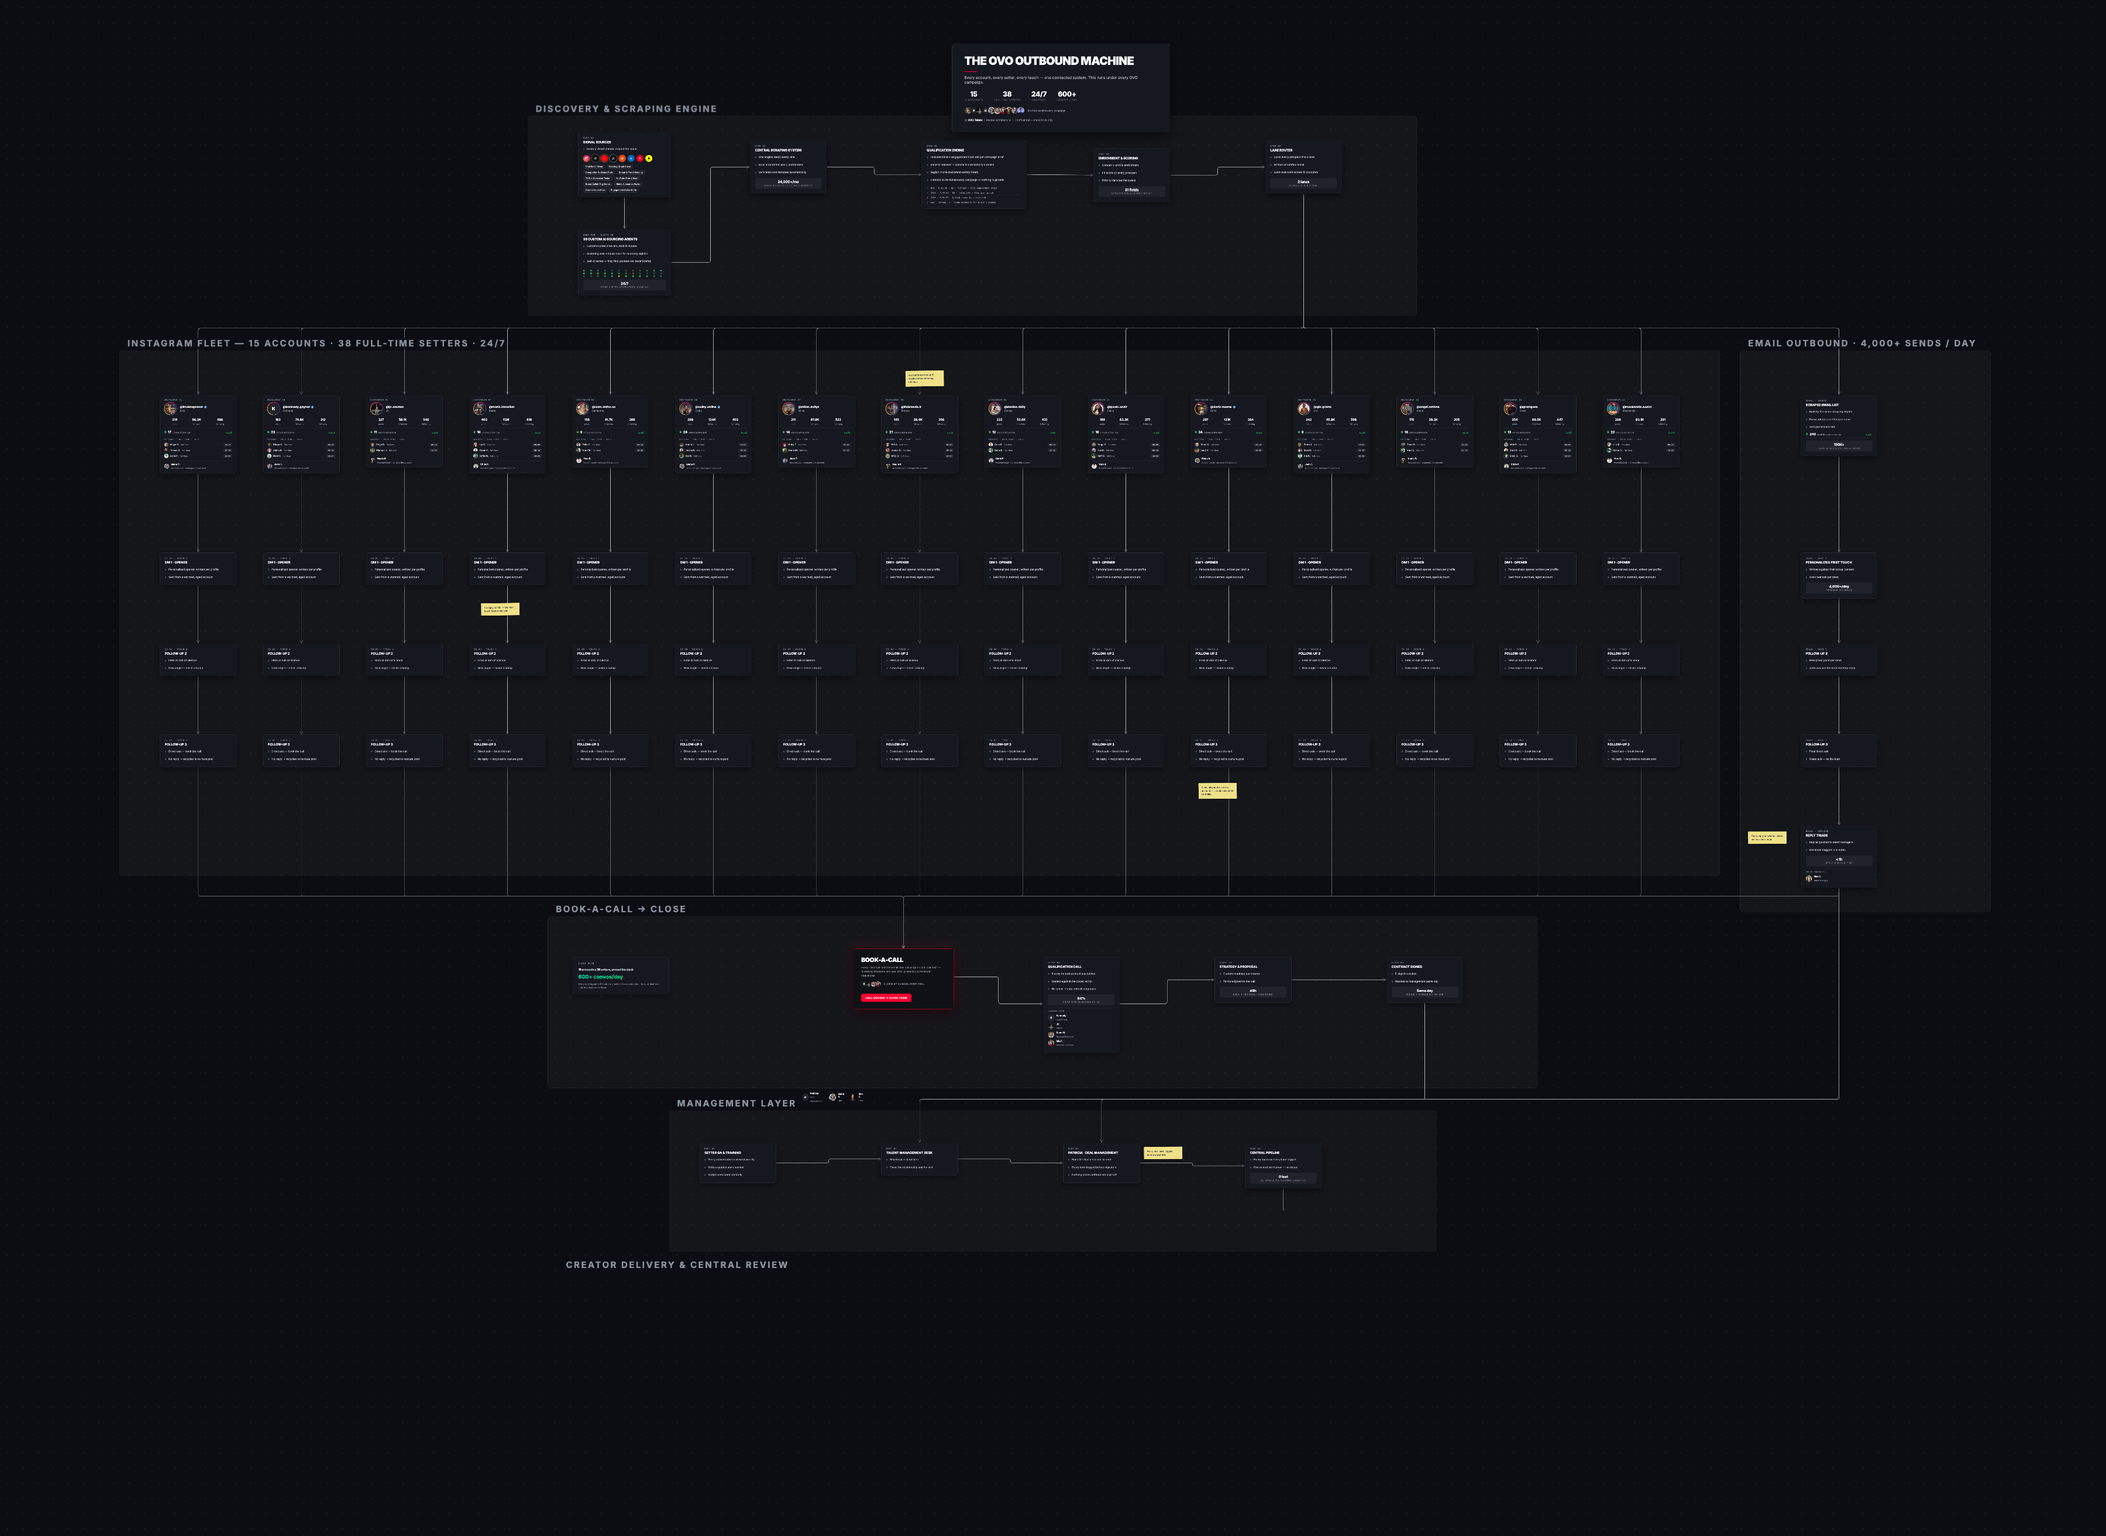
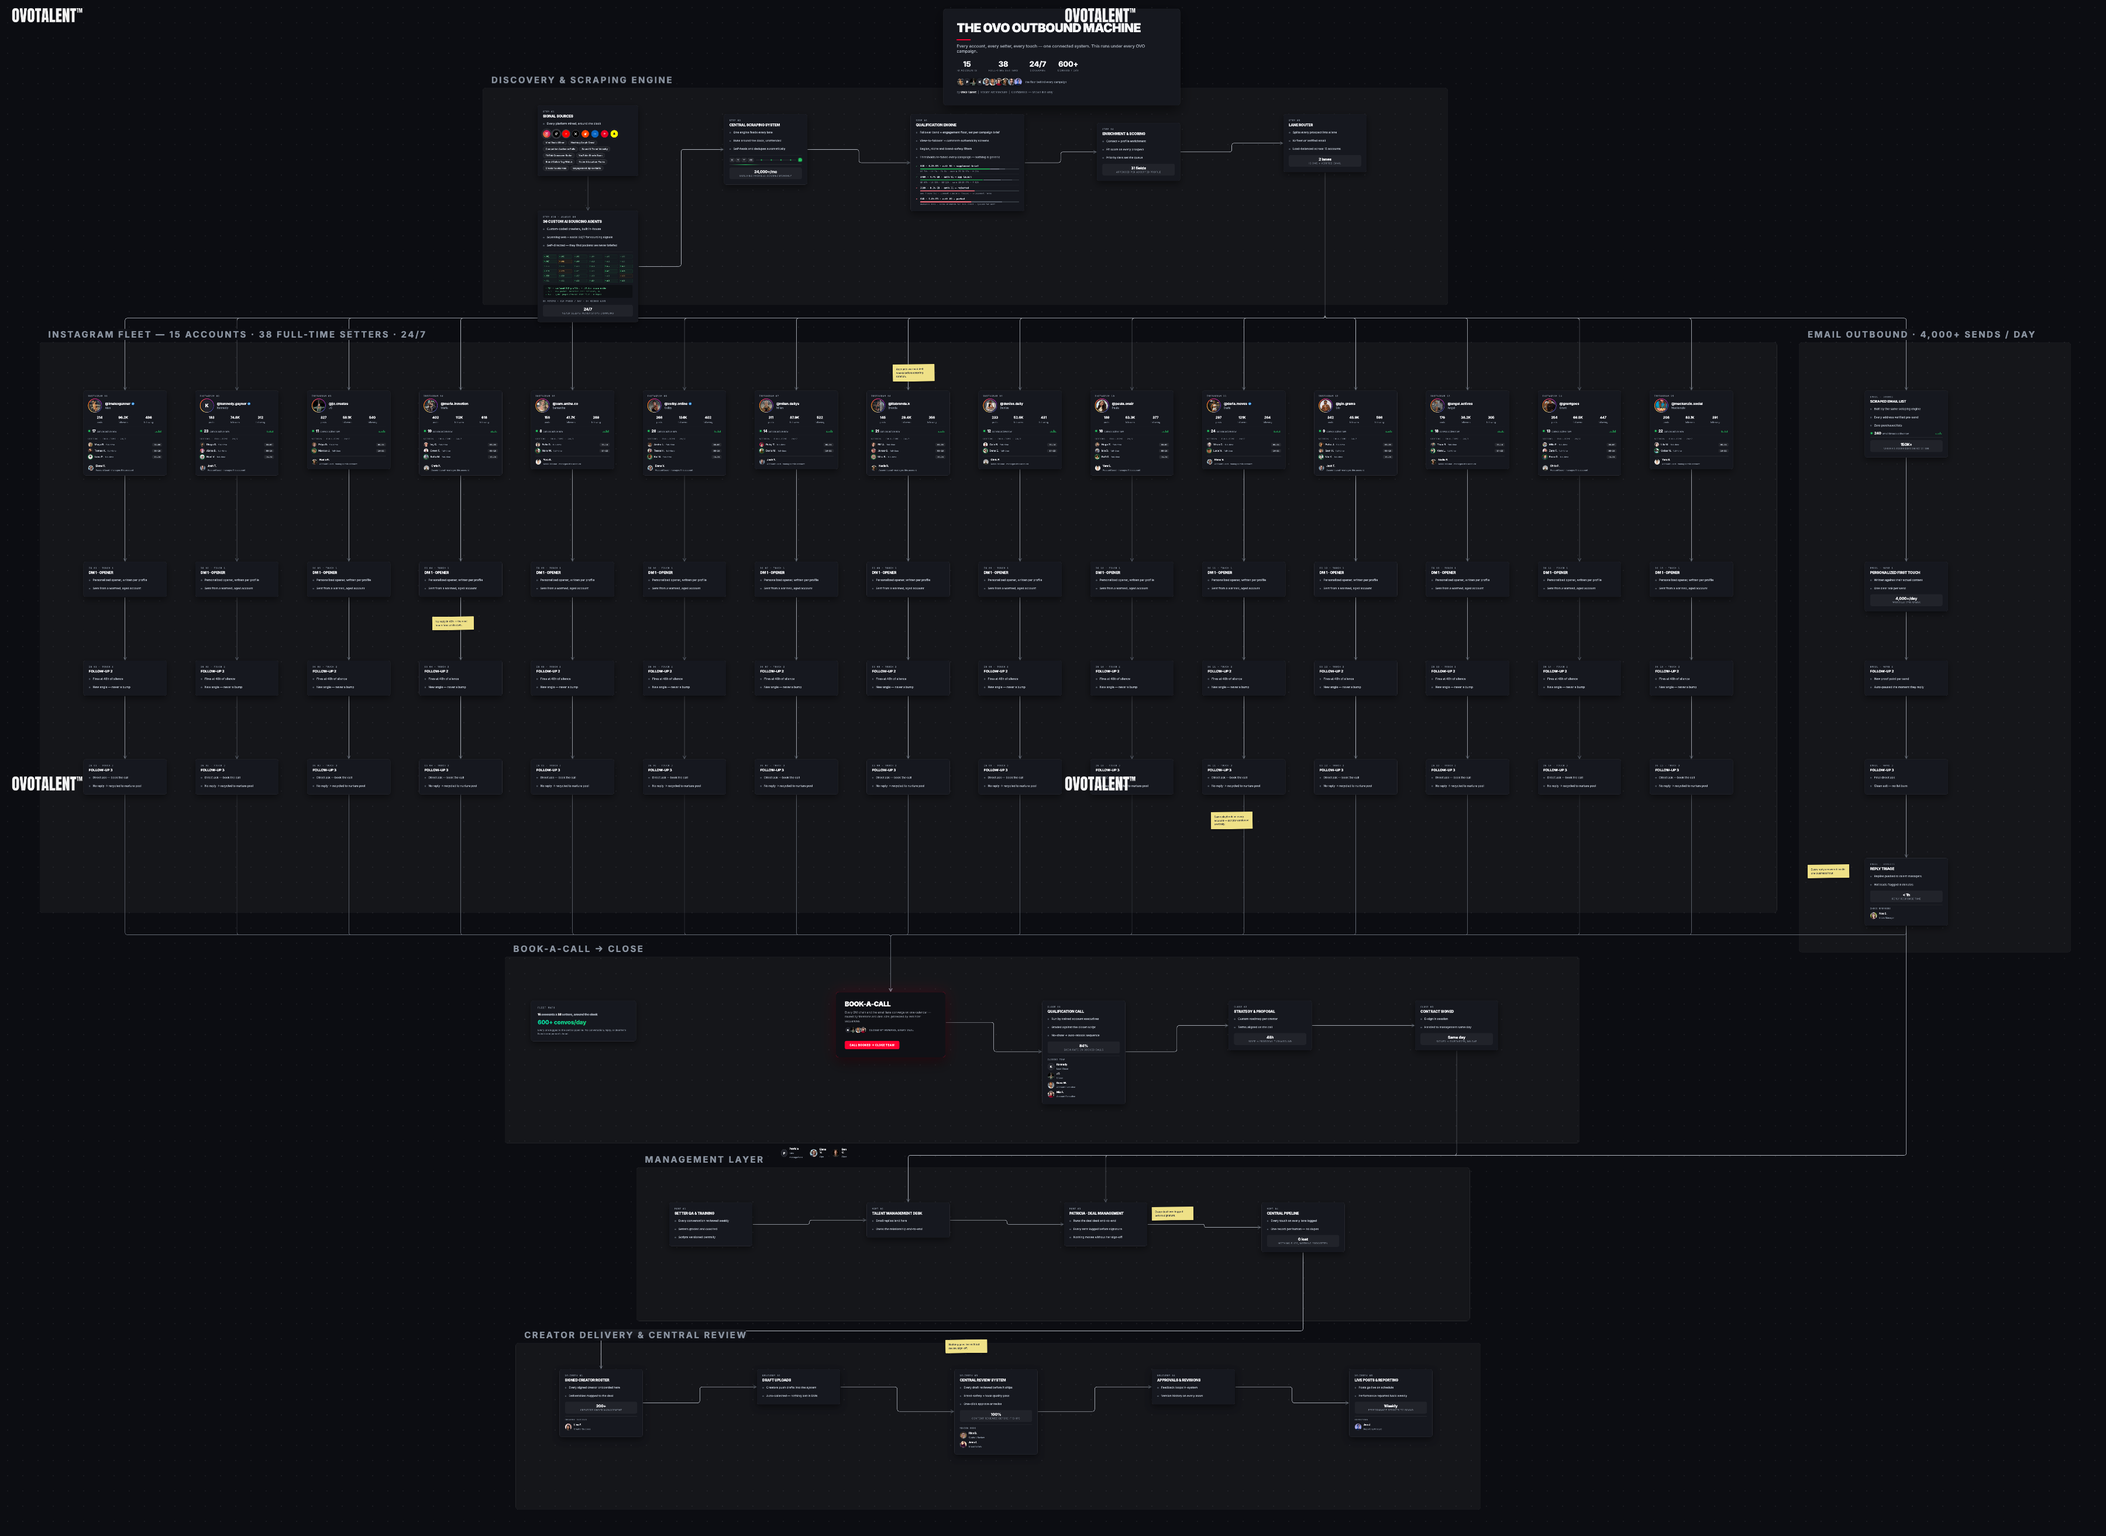
feat: board card upgrades — agent console, animated intake, analytics rows; fix delivery zone missing from baked map

diff --git a/sales-decks/machine-board.html b/sales-decks/machine-board.html
@@ -710,6 +710,57 @@
   .module-card .card-stat .stat-value { color: #F2F3F6 !important; }
   .module-card .card-stat .stat-desc { color: #7E8794 !important; }
 
+  /* ---- agent console (crawlers) ---- */
+  .agent-matrix { display: grid; grid-template-columns: repeat(6, 1fr); gap: 5px; margin-top: 14px;
+    padding-top: 12px; border-top: 1px solid rgba(255,255,255,0.08); }
+  .agent { display: flex; align-items: center; gap: 4px;
+    font-family: ui-monospace, 'SF Mono', Menlo, monospace; font-size: 8px; font-weight: 600;
+    color: #7FDCA0; background: rgba(34,197,94,0.07); border: 1px solid rgba(34,197,94,0.22);
+    border-radius: 4px; padding: 3px 5px; animation: swarmPulse 2.2s ease-in-out infinite; }
+  .agent i { width: 4px; height: 4px; border-radius: 50%; background: #22C55E; flex: 0 0 4px; }
+  .agent.amber { color: #F5C169; background: rgba(245,158,11,0.08); border-color: rgba(245,158,11,0.3); }
+  .agent.amber i { background: #F59E0B; }
+  .crawler-feed { margin-top: 10px; padding: 8px 10px; background: rgba(0,0,0,0.35);
+    border: 1px solid rgba(255,255,255,0.06); border-radius: 6px; }
+  .feed-line { font-family: ui-monospace, 'SF Mono', Menlo, monospace; font-size: 9px;
+    color: #6EE7A0; padding: 2px 0; animation: feedGlow 6s ease-in-out infinite; }
+  .feed-caret { color: #22C55E; margin-right: 6px; font-weight: 700; }
+  @keyframes feedGlow { 0%, 100% { opacity: 0.45; } 15%, 35% { opacity: 1; } }
+  .crawler-stats { margin-top: 9px; font-family: ui-monospace, 'SF Mono', Menlo, monospace;
+    font-size: 8.5px; font-weight: 600; letter-spacing: 1.4px; color: #7E8794; }
+
+  /* ---- intake pipeline (scraping hub) ---- */
+  .flow { display: flex; align-items: center; gap: 10px; margin-top: 14px;
+    padding-top: 12px; border-top: 1px solid rgba(255,255,255,0.08); }
+  .f-srcs { display: flex; gap: 4px; }
+  .f-srcs span { font-family: ui-monospace, 'SF Mono', Menlo, monospace; font-size: 8px; font-weight: 700;
+    color: #A6ADB8; background: rgba(255,255,255,0.06); border: 1px solid rgba(255,255,255,0.1);
+    border-radius: 4px; padding: 3px 6px; }
+  .f-track { position: relative; flex: 1; height: 2px; background: rgba(255,255,255,0.09); border-radius: 1px; }
+  .f-track i { position: absolute; top: -2px; left: 0; width: 6px; height: 6px; border-radius: 50%;
+    background: #22C55E; animation: flowMove 2.4s linear infinite; }
+  @keyframes flowMove { 0% { left: 0; opacity: 0; } 12% { opacity: 1; } 88% { opacity: 1; } 100% { left: calc(100% - 6px); opacity: 0; } }
+  .f-core { width: 16px; height: 16px; border-radius: 5px; background: #22C55E;
+    box-shadow: 0 0 0 4px rgba(34,197,94,0.15); animation: setterPulse 2s infinite; }
+  .f-progress { margin-top: 10px; height: 3px; border-radius: 2px; background: rgba(255,255,255,0.07); overflow: hidden; }
+  .f-progress i { display: block; height: 100%; width: 40%; border-radius: 2px;
+    background: linear-gradient(90deg, transparent, #22C55E, transparent);
+    animation: shimmer 2.8s linear infinite; }
+  @keyframes shimmer { 0% { transform: translateX(-100%); } 100% { transform: translateX(350%); } }
+
+  /* ---- analytics example rows ---- */
+  .ex { display: block; }
+  .ex-top { display: flex; align-items: baseline; gap: 8px; }
+  .ex-head { font-family: ui-monospace, 'SF Mono', Menlo, monospace; font-size: 10.5px; color: #C4CAD4; font-weight: 600; }
+  .ex-bar { display: flex; gap: 1px; height: 4px; margin: 6px 0 4px 20px; border-radius: 1px; overflow: hidden; }
+  .ex-bar i { height: 100%; }
+  .ex-bar .lead-ok { background: #22C55E; }
+  .ex-bar .lead-no { background: #F87181; }
+  .ex-bar .seg2 { background: #7E8794; }
+  .ex-bar .seg3 { background: #565D68; }
+  .ex-bar .seg4 { background: #33383F; }
+  .ex-sub { font-family: ui-monospace, 'SF Mono', Menlo, monospace; font-size: 9px; color: #7E8794; margin-left: 20px; padding-bottom: 2px; }
+
   /* ---- presenter chrome, darkened ---- */
   #toolbar, #minimap, #draw-open-btn, #shortcuts {
     background: rgba(18,20,26,0.94) !important; color: #C4CAD4 !important;
@@ -822,11 +873,11 @@ const CANVAS_H = 7000;
 
 const MODULES = [
   {"id": "sig-sources", "num": "STEP 01", "title": "SIGNAL SOURCES", "shortTitle": "Signal Sources", "color": "#5B6472", "timestamp": "", "x": 2450, "y": 480, "points": ["Every platform mined, around the clock"], "chips": ["Viral Reels Miner", "Hashtag Graph Crawl", "Competitor Audience Pulls", "Sound & Trend Velocity", "TikTok Crossover Radar", "YouTube Shorts Scan", "Brand Collab Tag Watch", "Niche & Location Packs", "Creator Lookalikes", "Engagement Spike Alerts"], "w": 460, "badges": [{"cls": "b-ig", "svg": "<svg viewBox='0 0 24 24' fill='none' stroke='#fff' stroke-width='2'><rect x='3' y='3' width='18' height='18' rx='5'/><circle cx='12' cy='12' r='4.2'/><circle cx='17.4' cy='6.6' r='1.3' fill='#fff' stroke='none'/></svg>"}, {"cls": "b-tt", "svg": "<svg viewBox='0 0 24 24' fill='#fff'><path d='M14 3v9.2a3.4 3.4 0 1 1-2.6-3.3V6.4A6.4 6.4 0 1 0 17 12.7V8.9c1 .8 2.2 1.3 3.6 1.4V7.2C18.6 7 17 5.3 16.7 3H14z'/></svg>"}, {"cls": "b-yt", "svg": "<svg viewBox='0 0 24 24'><path fill='#fff' d='M9.5 8v8l7-4-7-4z'/></svg>"}, {"cls": "b-x", "svg": "<svg viewBox='0 0 24 24' stroke='#fff' stroke-width='2.6' stroke-linecap='round'><path d='M5 5l14 14M19 5L5 19'/></svg>"}, {"cls": "b-rd", "svg": "<svg viewBox='0 0 24 24' fill='#fff'><ellipse cx='12' cy='14.5' rx='7' ry='4.8'/><circle cx='9.4' cy='13.9' r='1.2' fill='#FF4500'/><circle cx='14.6' cy='13.9' r='1.2' fill='#FF4500'/><circle cx='18.4' cy='8' r='1.6'/><path d='M12 9.7l1-4.2 3.4 1' stroke='#fff' stroke-width='1.4' fill='none'/></svg>"}, {"cls": "b-li", "svg": "<svg viewBox='0 0 24 24'><text x='12' y='16.5' text-anchor='middle' font-size='12' font-weight='800' fill='#fff' font-family='Arial'>in</text></svg>"}, {"cls": "b-pin", "svg": "<svg viewBox='0 0 24 24'><text x='12' y='17' text-anchor='middle' font-size='14' font-weight='800' fill='#fff' font-family='Georgia'>P</text></svg>"}, {"cls": "b-sc", "svg": "<svg viewBox='0 0 24 24' fill='#1A1A1A'><path d='M12 4c2.6 0 4.4 1.9 4.4 4.6 0 .9-.1 1.7-.2 2.3.5.4 1.5.5 2.3.6-.2.8-1.2 1.3-2.2 1.6.5 1 1.6 1.8 2.7 2-.7 1-2.2 1.4-3.5 1.5-.6.8-1.9 1.4-3.5 1.4s-2.9-.6-3.5-1.4c-1.3-.1-2.8-.5-3.5-1.5 1.1-.2 2.2-1 2.7-2-1-.3-2-.8-2.2-1.6.8-.1 1.8-.2 2.3-.6-.1-.6-.2-1.4-.2-2.3C7.6 5.9 9.4 4 12 4z'/></svg>"}]},
-  {"id": "scrape-hub", "num": "STEP 02", "title": "CENTRAL SCRAPING SYSTEM", "shortTitle": "Scraping", "color": "#5B6472", "timestamp": "", "x": 3300, "y": 520, "points": ["One engine feeds every lane", "Runs around the clock, unattended", "Self-heals and dedupes automatically"], "stat": {"value": "24,000+/mo", "desc": "qualified profiles scraped monthly"}, "pill": true},
-  {"id": "qualify", "num": "STEP 03", "title": "QUALIFICATION ENGINE", "shortTitle": "Qualification Engine", "color": "#5B6472", "timestamp": "", "x": 4150, "y": 520, "points": ["Follower band + engagement floor, set per campaign brief", "View-to-follower + comment-authenticity screens", "Region, niche and brand-safety filters", "Thresholds re-tuned every campaign — nothing is generic"], "examples": [{"ok": true, "text": "82K · 6.1% ER · US · fitness → fits supplement brief"}, {"ok": true, "text": "148K · 4.4% ER · UK · lifestyle → fits app launch"}, {"ok": false, "text": "210K · 0.3% ER · botted comments → rejected"}, {"ok": false, "text": "64K · strong ER · niche mismatch for brief → parked"}], "w": 520},
+  {"id": "scrape-hub", "num": "STEP 02", "title": "CENTRAL SCRAPING SYSTEM", "shortTitle": "Scraping", "color": "#5B6472", "timestamp": "", "x": 3300, "y": 520, "points": ["One engine feeds every lane", "Runs around the clock, unattended", "Self-heals and dedupes automatically"], "stat": {"value": "24,000+/mo", "desc": "qualified profiles scraped monthly"}, "pill": true, "flow": true},
+  {"id": "qualify", "num": "STEP 03", "title": "QUALIFICATION ENGINE", "shortTitle": "Qualification Engine", "color": "#5B6472", "timestamp": "", "x": 4150, "y": 520, "points": ["Follower band + engagement floor, set per campaign brief", "View-to-follower + comment-authenticity screens", "Region, niche and brand-safety filters", "Thresholds re-tuned every campaign — nothing is generic"], "examples": [{"ok": true, "head": "82K · 6.1% ER · auth 94 → supplement brief", "bar": [["us", 71, "lead-ok"], ["uk", 9, "seg2"], ["ca", 6, "seg3"], ["rest", 14, "seg4"]], "sub": "US 71% · UK 9% · CA 6% · core W 25–34 58% · M 21%"}, {"ok": true, "head": "148K · 4.4% ER · auth 91 → app launch", "bar": [["uk", 64, "lead-ok"], ["us", 18, "seg2"], ["eu", 11, "seg3"], ["rest", 7, "seg4"]], "sub": "UK 64% · US 18% · EU 11% · core 18–24 47% · F 62%"}, {"ok": false, "head": "210K · 0.3% ER · auth 31 → rejected", "bar": [["farm", 55, "lead-no"], ["mixed", 45, "seg4"]], "sub": "geo fragmented · comment clusters flagged · engagement farms"}, {"ok": false, "head": "64K · 5.8% ER · auth 89 → parked", "bar": [["us", 52, "lead-no"], ["latam", 31, "seg3"], ["rest", 17, "seg4"]], "sub": "audience fits · niche mismatch for THIS brief · queued for next"}], "w": 520},
   {"id": "enrich", "num": "STEP 04", "title": "ENRICHMENT & SCORING", "shortTitle": "Enrichment & Scoring", "color": "#5B6472", "timestamp": "", "x": 5000, "y": 560, "points": ["Contact + profile enrichment", "Fit score on every prospect", "Priority tiers set the queue"], "stat": {"value": "31 fields", "desc": "appended per accepted profile"}},
   {"id": "router", "num": "STEP 05", "title": "LANE ROUTER", "shortTitle": "Router", "color": "#5B6472", "timestamp": "", "x": 5850, "y": 520, "points": ["Splits every prospect into a lane", "IG fleet or verified email", "Load-balanced across 15 accounts"], "stat": {"value": "2 lanes", "desc": "IG DMs + verified email"}, "pill": true},
-  {"id": "crawlers", "num": "STEP 01B · ALWAYS ON", "title": "36 CUSTOM AI SOURCING AGENTS", "shortTitle": "AI Crawlers", "color": "#5B6472", "timestamp": "", "x": 2450, "y": 960, "points": ["Custom-coded crawlers, built in-house", "Scanning web + social 24/7 for sourcing signals", "Self-directed — they find pockets we never briefed"], "stat": {"value": "24/7", "desc": "never sleeps, never stops crawling"}, "pill": true, "w": 460, "swarm": 36},
+  {"id": "crawlers", "num": "STEP 01B · ALWAYS ON", "title": "36 CUSTOM AI SOURCING AGENTS", "shortTitle": "AI Crawlers", "color": "#5B6472", "timestamp": "", "x": 2450, "y": 960, "points": ["Custom-coded crawlers, built in-house", "Scanning web + social 24/7 for sourcing signals", "Self-directed — they find pockets we never briefed"], "stat": {"value": "24/7", "desc": "never sleeps, never stops crawling"}, "pill": true, "w": 460, "swarm": 36, "feed": ["A14 · surfaced 212 profiles · pilates micro-niche", "A29 · new pocket: marathon-prep creators, UK", "A07 · 3,041 pages crawled last hour · 0 dupes"], "cstats": "36 ACTIVE · 61K PAGES / DAY · 14 NICHES LIVE"},
   {"id": "ig-1", "num": "INSTAGRAM 01", "title": "ALEX", "shortTitle": "IG Fleet", "color": "#B0566E", "timestamp": "", "x": 380, "y": 1780, "points": [], "pill": true, "ig": {"name": "Alex", "handle": "@imalexgunnar", "verified": true, "posts": 214, "followers": "96.2K", "following": 486, "setters": [{"name": "Maya R.", "shift": "00–08", "img": "assets/board/team/setter01.jpg", "live": false}, {"name": "Tomas K.", "shift": "08–16", "img": "assets/board/team/setter02.jpg", "live": false}, {"name": "Lena P.", "shift": "16–24", "img": "assets/board/team/setter03.jpg", "live": true}], "active": 17, "bars": [4, 9, 5, 10, 6, 11], "lead": {"name": "Elena V.", "img": "assets/board/team/elena.jpg"}, "img": "assets/creators/alex.jpg"}},
   {"id": "dm-1", "num": "IG 01 · TOUCH 1", "title": "DM 1 · OPENER", "shortTitle": "Dm 1 · Opener", "color": "#9A5B77", "timestamp": "", "x": 380, "y": 2560, "points": ["Personalized opener, written per profile", "Sent from a warmed, aged account"]},
   {"id": "fu2-1", "num": "IG 01 · TOUCH 2", "title": "FOLLOW-UP 2", "shortTitle": "Follow-Up 2", "color": "#83607F", "timestamp": "", "x": 380, "y": 3010, "points": ["Fires at 48h of silence", "New angle — never a bump"]},
@@ -1027,10 +1078,11 @@ MODULES.forEach((m, i) => {
         <div class="card-title">${m.title}</div>
         <ul class="card-points">${m.points.map(p => typeof p === 'string' ? `<li>${p}</li>` : `<li class="${p.class || ''}">${p.text}</li>`).join('')}</ul>
         ${m.badges ? `<div class="src-badges">${m.badges.map((b, k) => `<span class="src-badge ${b.cls}" style="animation-delay:${k * 0.28}s">${b.svg}</span>`).join('')}</div>` : ''}
-        ${m.swarm ? `<div class="swarm">${Array.from({length: m.swarm}, (_, k) => `<i class="${[7, 19, 29].includes(k) ? 'amber' : ''}" style="animation-delay:${(k * 0.11) % 1.8}s"></i>`).join('')}</div>` : ''}
+        ${m.swarm ? `<div class="agent-matrix">${Array.from({length: m.swarm}, (_, k) => `<span class="agent${[7, 19, 29].includes(k) ? ' amber' : ''}" style="animation-delay:${(k * 0.13) % 2.2}s"><i></i>A${String(k + 1).padStart(2, '0')}</span>`).join('')}</div>${m.feed ? `<div class="crawler-feed">${m.feed.map((f, k) => `<div class="feed-line" style="animation-delay:${k * 2}s"><span class="feed-caret">›</span>${f}</div>`).join('')}</div>` : ''}${m.cstats ? `<div class="crawler-stats">${m.cstats}</div>` : ''}` : ''}
+        ${m.flow ? `<div class="flow"><div class="f-srcs"><span>IG</span><span>TT</span><span>YT</span><span>WEB</span></div><div class="f-track"><i style="animation-delay:0s"></i><i style="animation-delay:0.6s"></i><i style="animation-delay:1.2s"></i><i style="animation-delay:1.8s"></i></div><div class="f-core"></div></div><div class="f-progress"><i></i></div>` : ''}
         ${m.live ? `<div class="ig-live"><span class="live-dot"></span><div class="live-meta"><b>${m.live.count}</b><span>${m.live.label}</span></div><div class="eq">${m.live.bars.map((h, k) => `<i style="height:${h}px;animation-delay:${k * 0.22}s"></i>`).join('')}</div></div>` : ''}
         ${m.chips ? `<div class="chip-grid">${m.chips.map(c => `<div class="chip">${c}</div>`).join('')}</div>` : ''}
-        ${m.examples ? `<div class="ex-rows">${m.examples.map(e => `<div class="ex"><span class="tick ${e.ok ? 'ok' : 'no'}">${e.ok ? '✓' : '✕'}</span>${e.text}</div>`).join('')}</div>` : ''}
+        ${m.examples ? `<div class="ex-rows">${m.examples.map(e => `<div class="ex"><div class="ex-top"><span class="tick ${e.ok ? 'ok' : 'no'}">${e.ok ? '✓' : '✕'}</span><span class="ex-head">${e.head}</span></div>${e.bar ? `<div class="ex-bar">${e.bar.map(s => `<i class="${s[2]}" style="width:${s[1]}%"></i>`).join('')}</div>` : ''}${e.sub ? `<div class="ex-sub">${e.sub}</div>` : ''}</div>`).join('')}</div>` : ''}
         ${statHTML}
         ${m.people ? `<div class="people"><div class="people-label">${m.peopleLabel || 'TEAM'}</div>${m.people.map(p => `<div class="person">${p.img ? `<img src="${p.img}" alt="">` : `<div class="p-initial">${p.initial}</div>`}<div class="p-meta"><b>${p.name}</b><span>${p.role}</span></div></div>`).join('')}</div>` : ''}
       </div>
